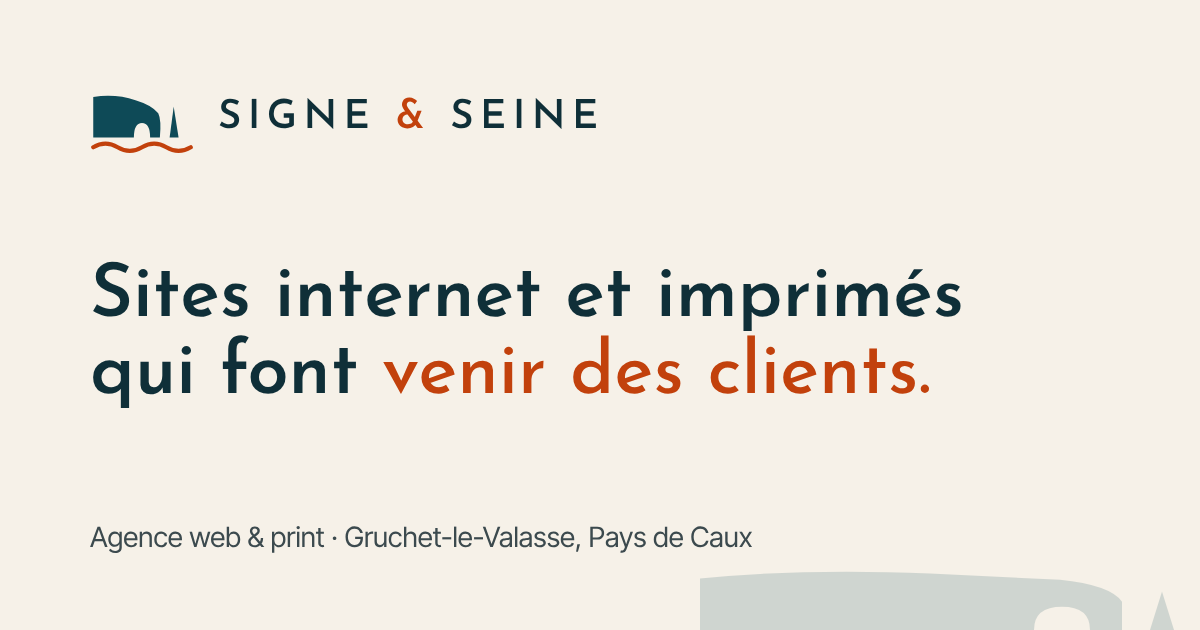
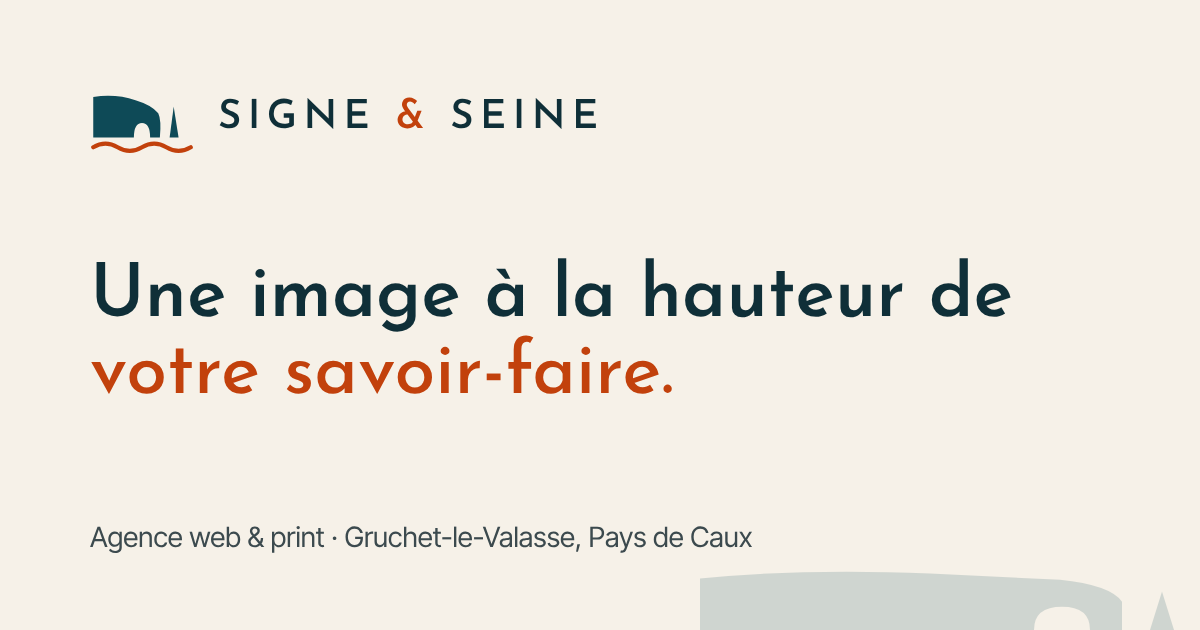
Accueil : nouvelle accroche « Une image à la hauteur de votre savoir-faire »
Claude-Session: https://claude.ai/code/session_013t3LT89XiTiRSSJ39Hfcg8

Changed region(s): [[0.0617, 0.3921, 0.8633, 0.6635]]

diff --git a/agence/src/web/public/home.tsx b/agence/src/web/public/home.tsx
@@ -44,7 +44,7 @@ export function HomePage(p: {
           <div class="hero-copy">
             <p class="eyebrow">Agence web & communication{s.city ? ` · ${s.city}, Pays de Caux` : ''}</p>
             <h1>
-              Sites internet et imprimés qui font <em>venir des clients.</em>
+              Une image à la hauteur de <em>votre savoir-faire.</em>
             </h1>
             <p class="hero-lead">
               Site internet, logo, flyers, cartes de visite, visibilité locale : nous créons une communication claire et cohérente pour les artisans,
